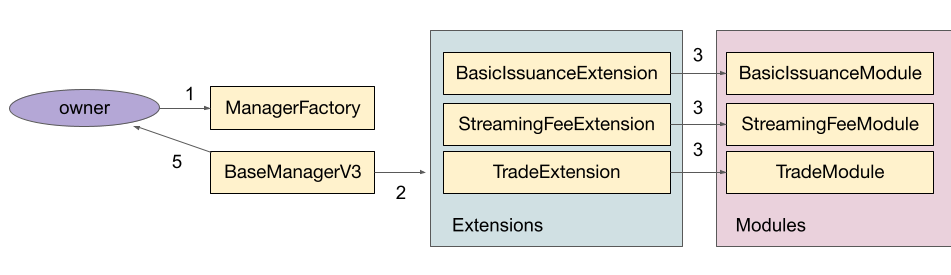
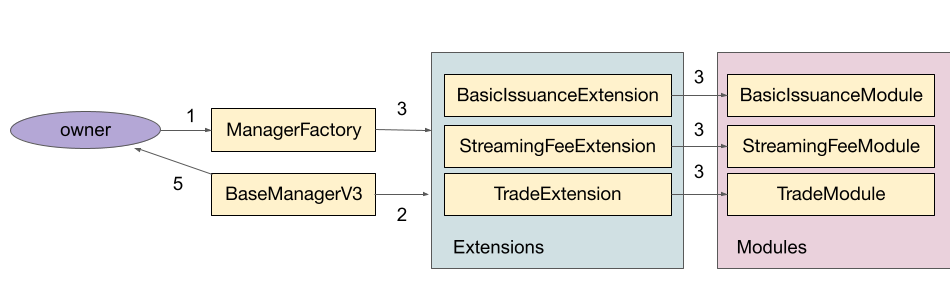
clean requirements, formatting

Changed region(s): [[0.0, 0.0873, 1.0, 0.9018]]

diff --git a/STIPS/STIP-009.md b/STIPS/STIP-009.md
@@ -88,27 +88,28 @@ The recommended solution deploys single-use, modular manager contracts from a ma
 
 **ManagerFactory**
 
-- Allow owners to create new set tokens with a manager smart contract
-- Allow owners to migrate existing set tokens to a manager smart contract
-- Allow owners to create manager smart contract and initialize and parameterize all modules and extensions in two transactions
+- Allow `owner` to create new set tokens with a manager smart contract
+- Allow `owner` to migrate existing set tokens to a manager smart contract
+- Allow `owner` to enable extensions and initialize corresponding modules
+- Allow `owner` to create manager smart contract and initialize and parameterize all modules and extensions in two transactions
 
 **BaseManagerV3**
 
-- Allow owners to add and remove global operator permissions on extensions
-- Allow owners to limit operator functionality on extensions with an asset whitelist
-- Allow owners to update asset whitelist
-- Allow owners to perform Set Token admin functions such as `addModule`, `removeModule`, and `setManager`
+- Allow `owner` to add and remove global `operator` permissions on extensions
+- Allow `owner` to limit `operator` functionality on extensions with an asset whitelist
+- Allow `owner` to update asset whitelist
+- Allow `owner` to perform Set Token admin functions such as `addModule`, `removeModule`, and `setManager`
 
 **BasicIssuanceExtension**
 
-- Allow owners to enable functionality of BasicIssuanceModule with only a state change and no contract deployment
-- Allow the manager to initialize the BasicIssuanceModule
+- Allow `owner` to enable functionality of BasicIssuanceModule with only a state change and no contract deployment
+- Allow `operator`(s) to initialize the BasicIssuanceModule
 - Allow users to `issue` and `redeem` the Set Token
 
 **StreamingFeeExtension**
 
-- Allow owners to enable functionality of StreamingFeeModule with only a state change and no contract deployment
-- Allow the manager to initialize the StreamingFeeModule
+- Allow `owner` to enable functionality of StreamingFeeModule with only a state change and no contract deployment
+- Allow `operator`(s) to initialize the StreamingFeeModule
 - Allow `owner` and `methodologist` to split streaming fees
 - Allow `owner` to update the streaming fee
 - Allow `owner` to update the streaming fee split
@@ -116,9 +117,10 @@ The recommended solution deploys single-use, modular manager contracts from a ma
 
 **TradeExtension**
 
-- Allow owners to enable functionality of TradeModule with only a state change and no contract deployment
-- Allow the manager to initialize the TradeModule
+- Allow `owner` to enable functionality of TradeModule with only a state change and no contract deployment
+- Allow `operator`(s) to initialize the TradeModule
 - Allow privileged `operator`(s) to perform trades on a DEX
+- Allow `owner` to restrict assets the privileged `operator`(s) can trade into with an asset whitelist
 
 ## User Flows
 
